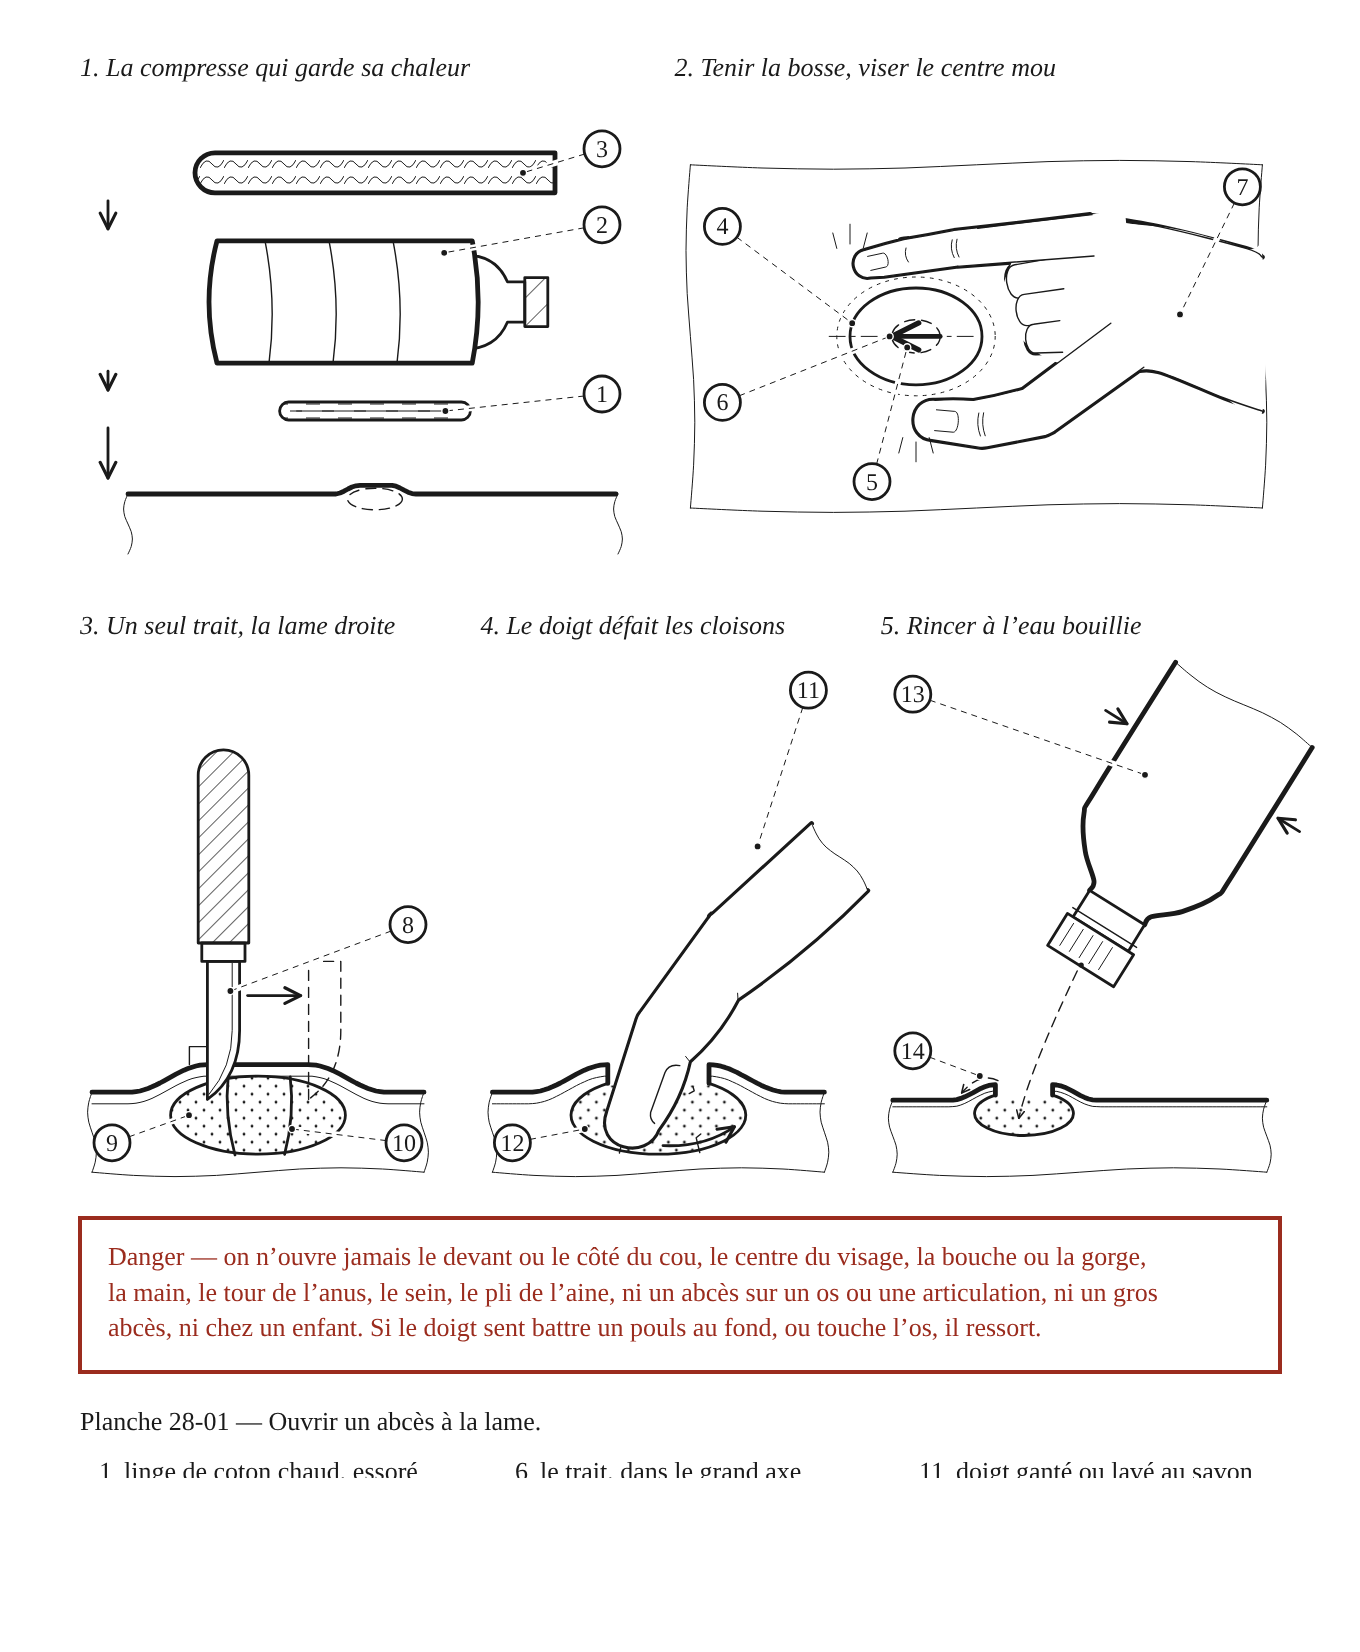
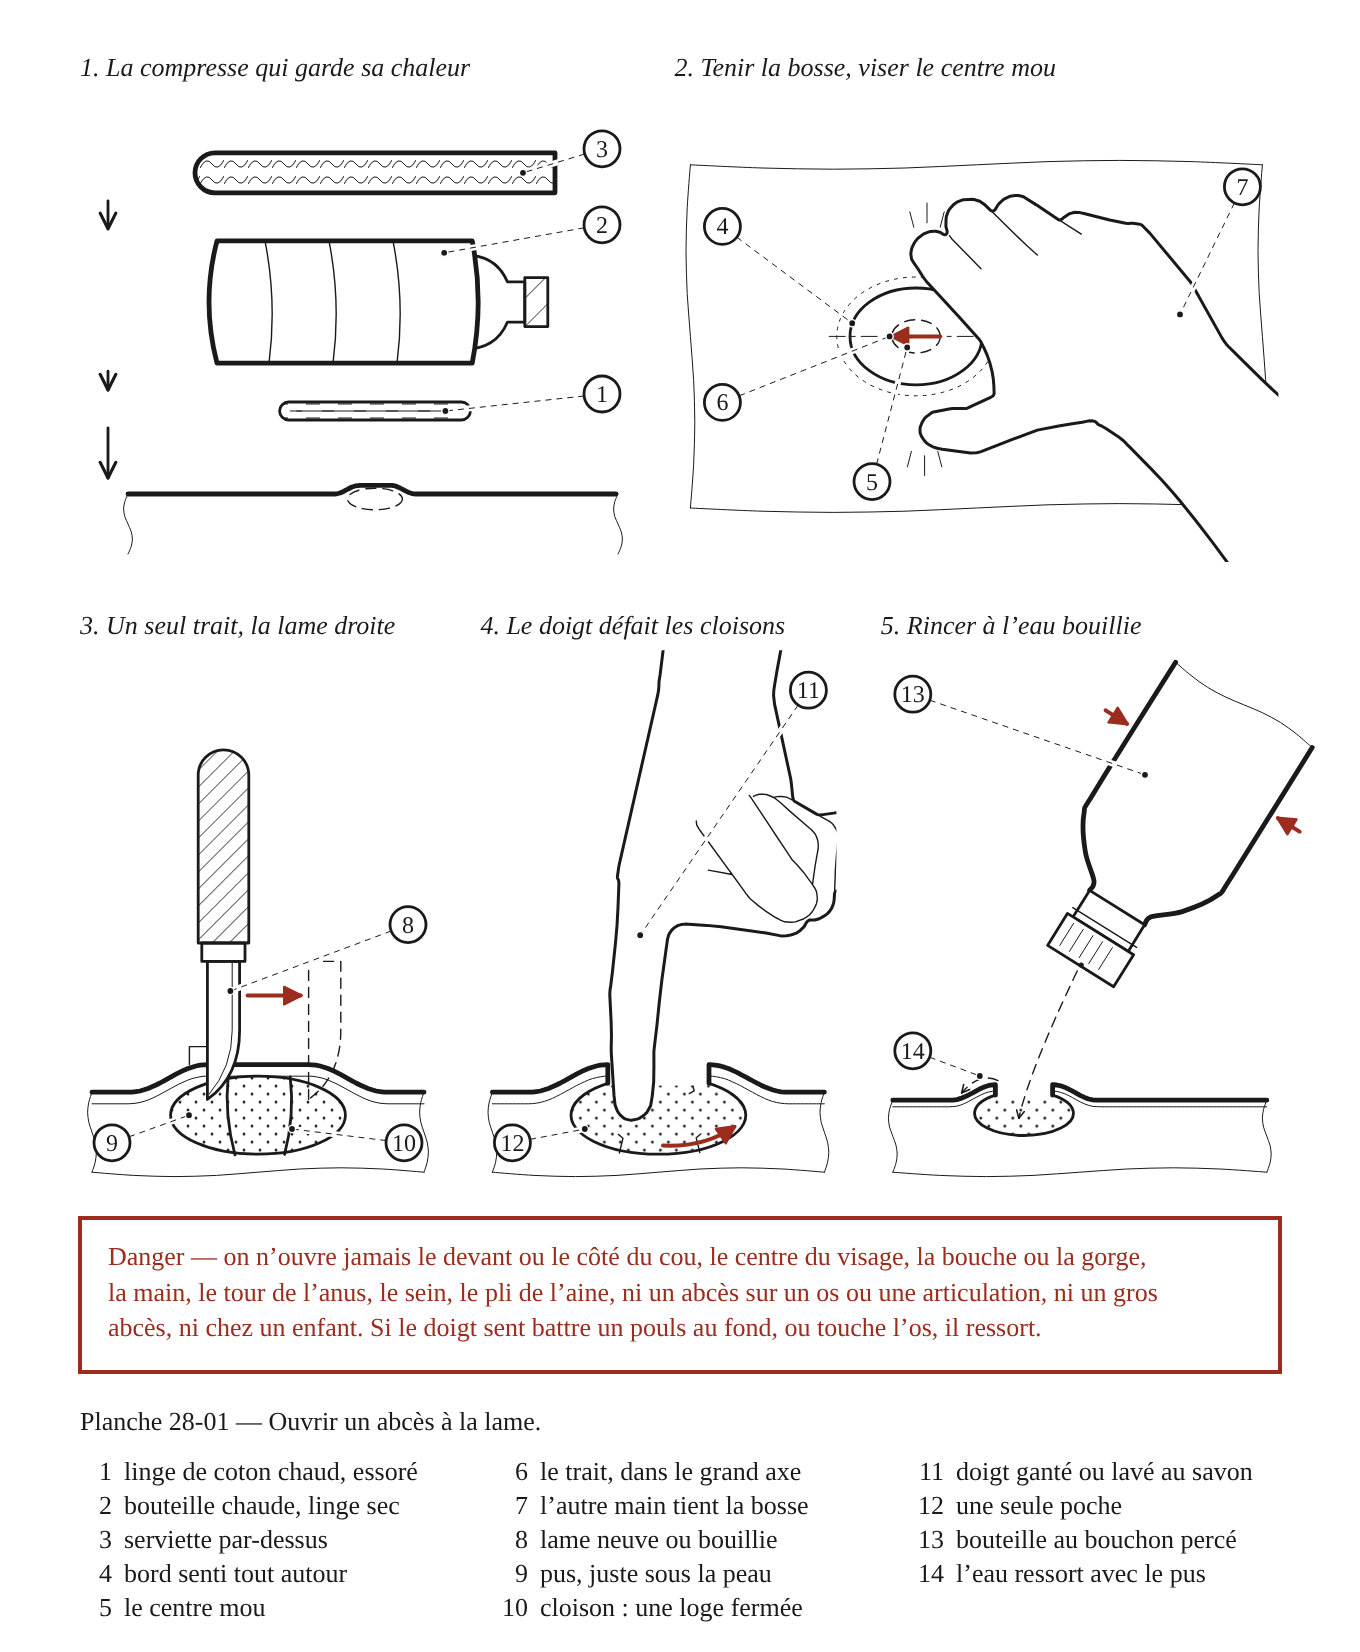
Mains simples : travail en cours des lots
Claude-Session: https://claude.ai/code/session_014xDY5FLxFXDJt3nYAYznSZ

diff --git a/images/planches-src/13-40.js b/images/planches-src/13-40.js
@@ -335,7 +335,7 @@ module.exports = (h) => {
           const BORD = { x0: 0, y0: 0, x1: z.l, y1: z.h };
           const mancheTige = tronc(T, u, L_METAL * e, (L_METAL + L_MANCHE) * e, R_MANCHE * e, A.hachure('bois', 'arete'));
           const oT = { x: g.pT[0], y: g.pT[1], pose: 'prise-manche', vue: 'paume', cote: 'droite', diametre: 2 * R_MANCHE, echelle: e };
-          out.push(FM.mainSimple({ ...oT, angle: poser(oT, mul(u, -1)), objet: mancheTige, avantbras: { bord: BORD, longueur: 'bord' } }).svg);
+          out.push(FM.mainSimple({ ...oT, angle: poser(oT, mul(u, -1)), objet: mancheTige, avantbras: { bord: BORD, longueur: 'bord', fin: [[0, g.G - 3], [z.l, g.G - 3]] } }).svg);
           const oK = { x: g.pK[0], y: g.pK[1], pose: 'prise-manche', vue: 'paume', cote: 'gauche', diametre: 26, echelle: e };
           out.push(FM.mainSimple({ ...oK, angle: poser(oK, mul(n, -1)), objet: couteau((s, t) => Q(s - K0, t)), avantbras: { bord: BORD, longueur: 'bord' } }).svg);
           return out.join('\n');
